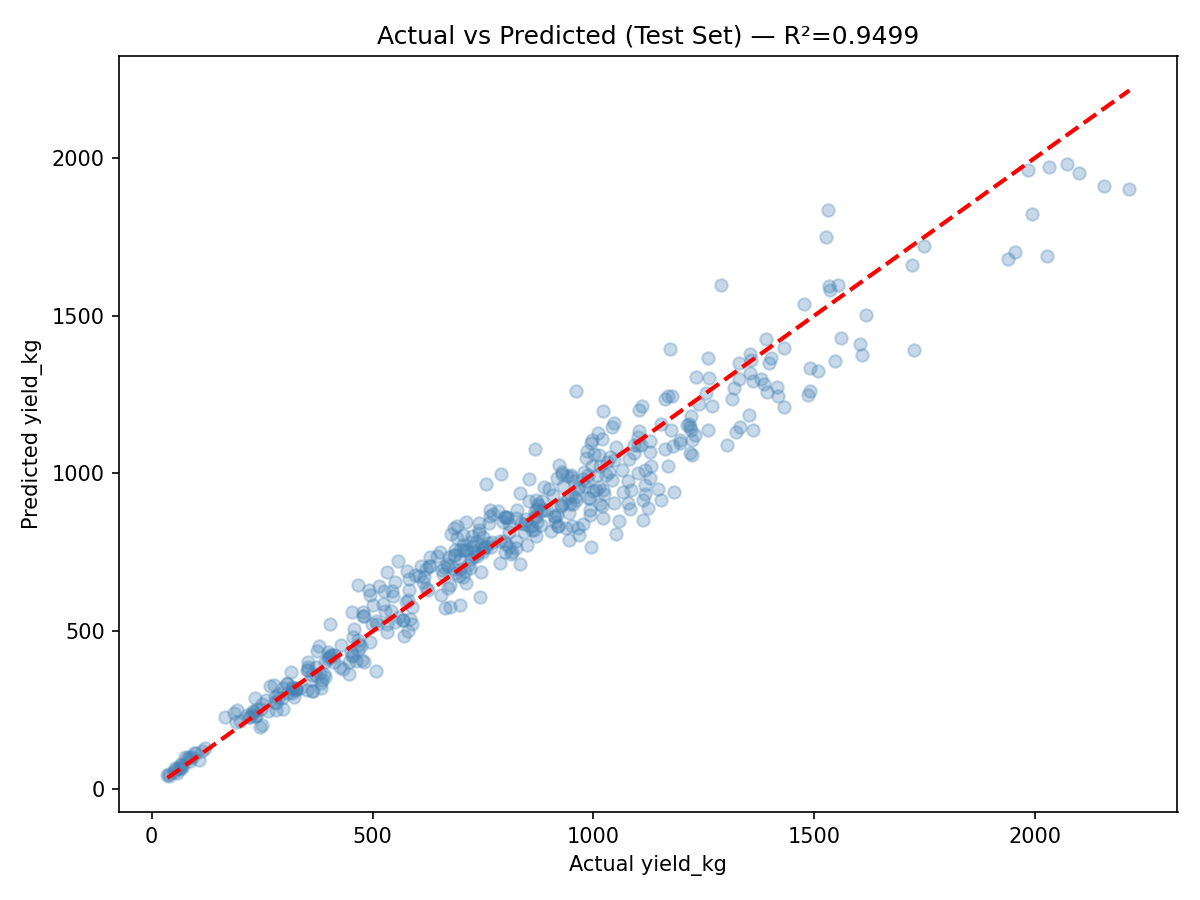
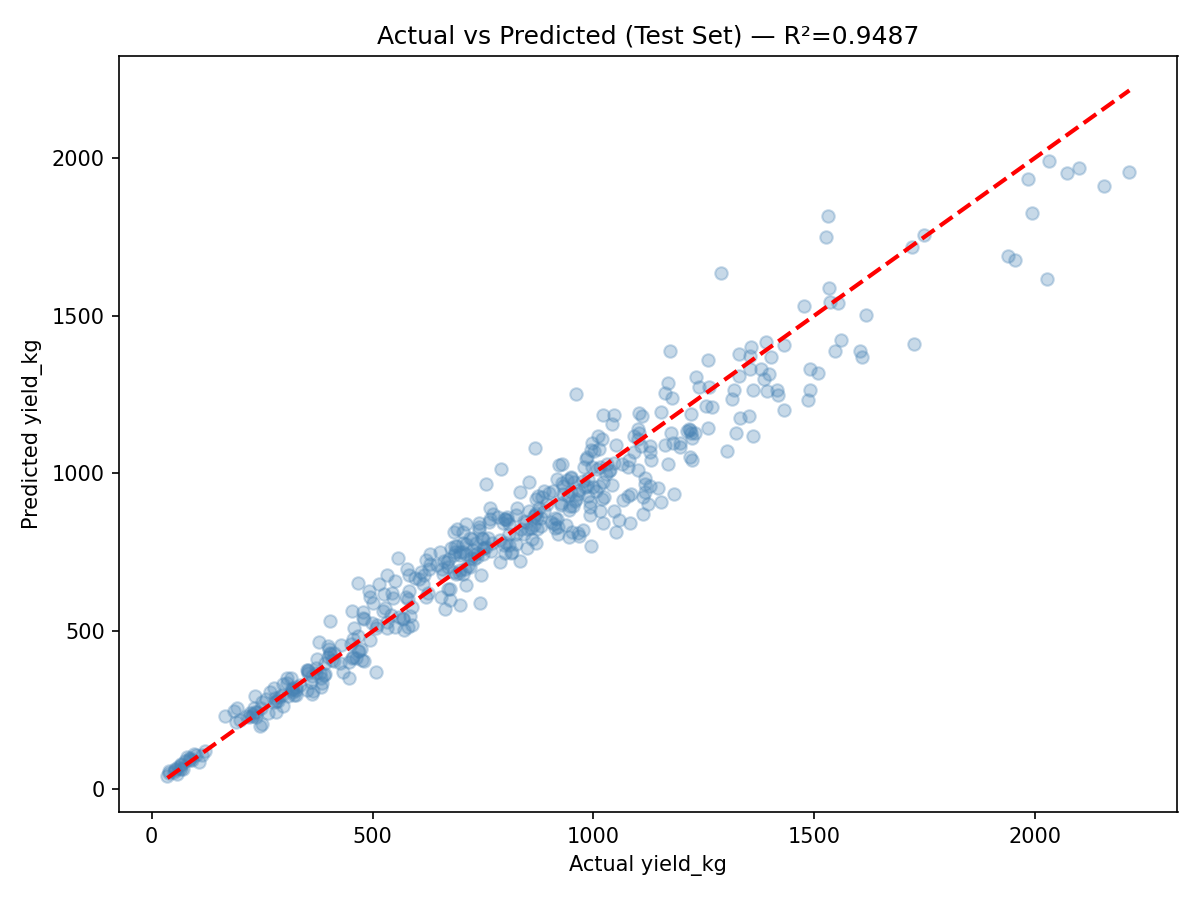
changes

diff --git a/backend/app.py b/backend/app.py
@@ -14,6 +14,7 @@ from auth import (
 from labour import labour_bp
 from water import water_bp
 from reports import reports_bp
+from roi import roi_bp
 from scheduler import start_scheduler
 
 # Configure logging
@@ -31,6 +32,8 @@ CORS(app,
      methods=["GET", "POST", "PUT", "DELETE", "OPTIONS"])
 app.register_blueprint(labour_bp)
 app.register_blueprint(water_bp)
+app.register_blueprint(reports_bp)
+app.register_blueprint(roi_bp)
 
 # Basic routes
 @app.route("/", methods=["GET"])